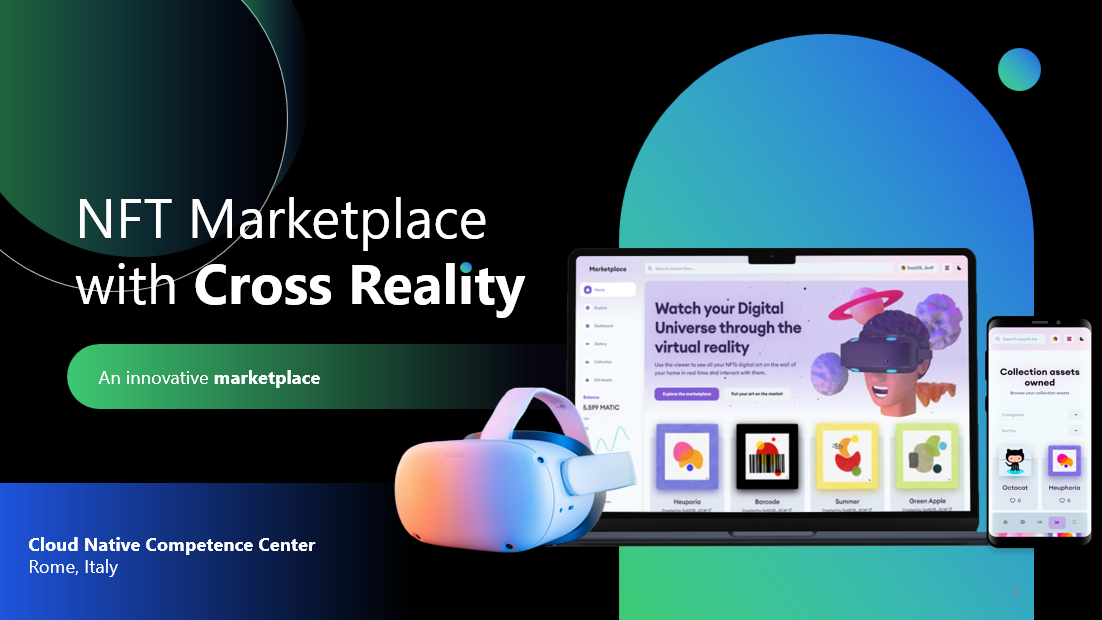
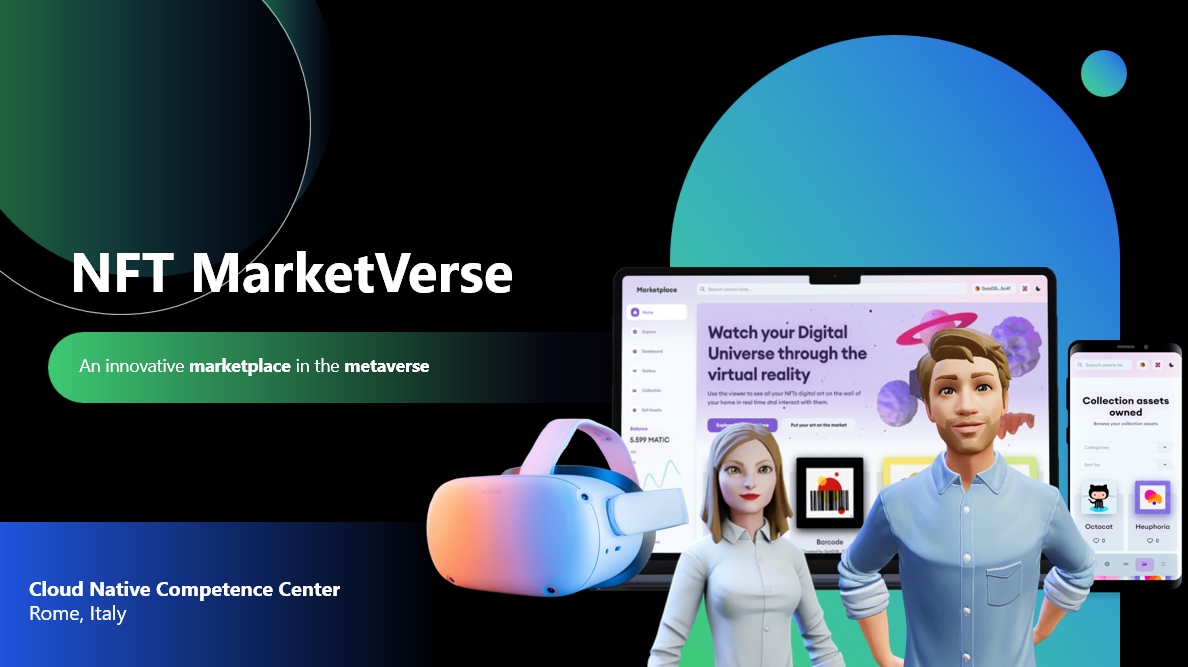
chore: change some nomenclatures

diff --git a/app/src/layouts/Navbar/UserMenu.tsx b/app/src/layouts/Navbar/UserMenu.tsx
@@ -18,7 +18,7 @@ export default function UserMenu({openAccountModal}): JSX.Element {
 		router.push("/");
 	}*/
 
-	function handleProfile() {
+	function handleAccount() {
 		router.push(getAccountUrl(address));
 	}
 
@@ -42,9 +42,11 @@ export default function UserMenu({openAccountModal}): JSX.Element {
 				</Flex>
 			</MenuButton>
 			<MenuList alignItems={"center"}>
-				<MenuItem onClick={openAccountModal}>{t<string>("common:account.title")}</MenuItem>
+				<MenuItem onClick={openAccountModal}>
+					{t<string>("common:account.profile")}
+				</MenuItem>
 				<MenuDivider />
-				<MenuItem onClick={handleProfile}>{t<string>("common:account.profile")}</MenuItem>
+				<MenuItem onClick={handleAccount}>{t<string>("common:account.title")}</MenuItem>
 				<MenuItem onClick={() => router.push("/transfers")}>
 					{t<string>("common:account.transfers")}
 				</MenuItem>
@@ -54,7 +56,7 @@ export default function UserMenu({openAccountModal}): JSX.Element {
 				<MenuItem onClick={handleGalleryBuilder}>
 					{t<string>("common:account.galleryBuilder")}
 				</MenuItem>
-				<MenuDivider />
+				{/*<MenuDivider />*/}
 				{/*<MenuItem onClick={handleLogout}>{t<string>("common:action.disconnect")}</MenuItem>*/}
 			</MenuList>
 		</Menu>

diff --git a/app/src/layouts/Main/index.tsx b/app/src/layouts/Main/index.tsx
@@ -11,7 +11,7 @@ export default function Main({children}: {children: React.ReactNode}): JSX.Eleme
 	const {isOpenSidebar, sidebarWidth} = useSidebar();
 	return (
 		<Viewport>
-			<Sidebar title={"Marketplace"} display={{base: "none", lg: "block"}} />
+			<Sidebar title={"MarketVerse"} display={{base: "none", lg: "block"}} />
 			<MainPanel
 				display="flex"
 				flexDirection="column"

diff --git a/app/src/layouts/AccountModal/index.tsx b/app/src/layouts/AccountModal/index.tsx
@@ -76,7 +76,7 @@ export default function AccountModal({isOpen, onClose}): JSX.Element {
 			<ModalOverlay />
 			<ModalContent background="gray.900">
 				<ModalHeader color="white" p={4} fontSize="lg" fontWeight="medium">
-					{t<string>("common:account.title")}
+					{t<string>("common:account.profile")}
 				</ModalHeader>
 				<ModalCloseButton
 					color="white"

diff --git a/app/src/contexts/Web3Provider.tsx b/app/src/contexts/Web3Provider.tsx
@@ -12,7 +12,7 @@ import {publicProvider} from "wagmi/providers/public";
 import Avatar from "@components/Avatar";
 import {deepMerge} from "@utils/objects";
 
-const appName = "NFT Marketplace";
+const appName = "NFT MarketVerse";
 
 const {provider, webSocketProvider, chains} = configureChains(allChains, [publicProvider()]);
 const {connectors} = getDefaultWallets({

diff --git a/app/README.md b/app/README.md
@@ -1,4 +1,4 @@
-# NFT Marketplace - App
+# NFT MarketVerse - App
 
 NextJS client application of the NFT Marketplace.
 

diff --git a/README.md b/README.md
@@ -1,4 +1,4 @@
-# NFT Marketplace
+# NFT MarketVerse
 
 ![](/docs/images/cover.png)
 
